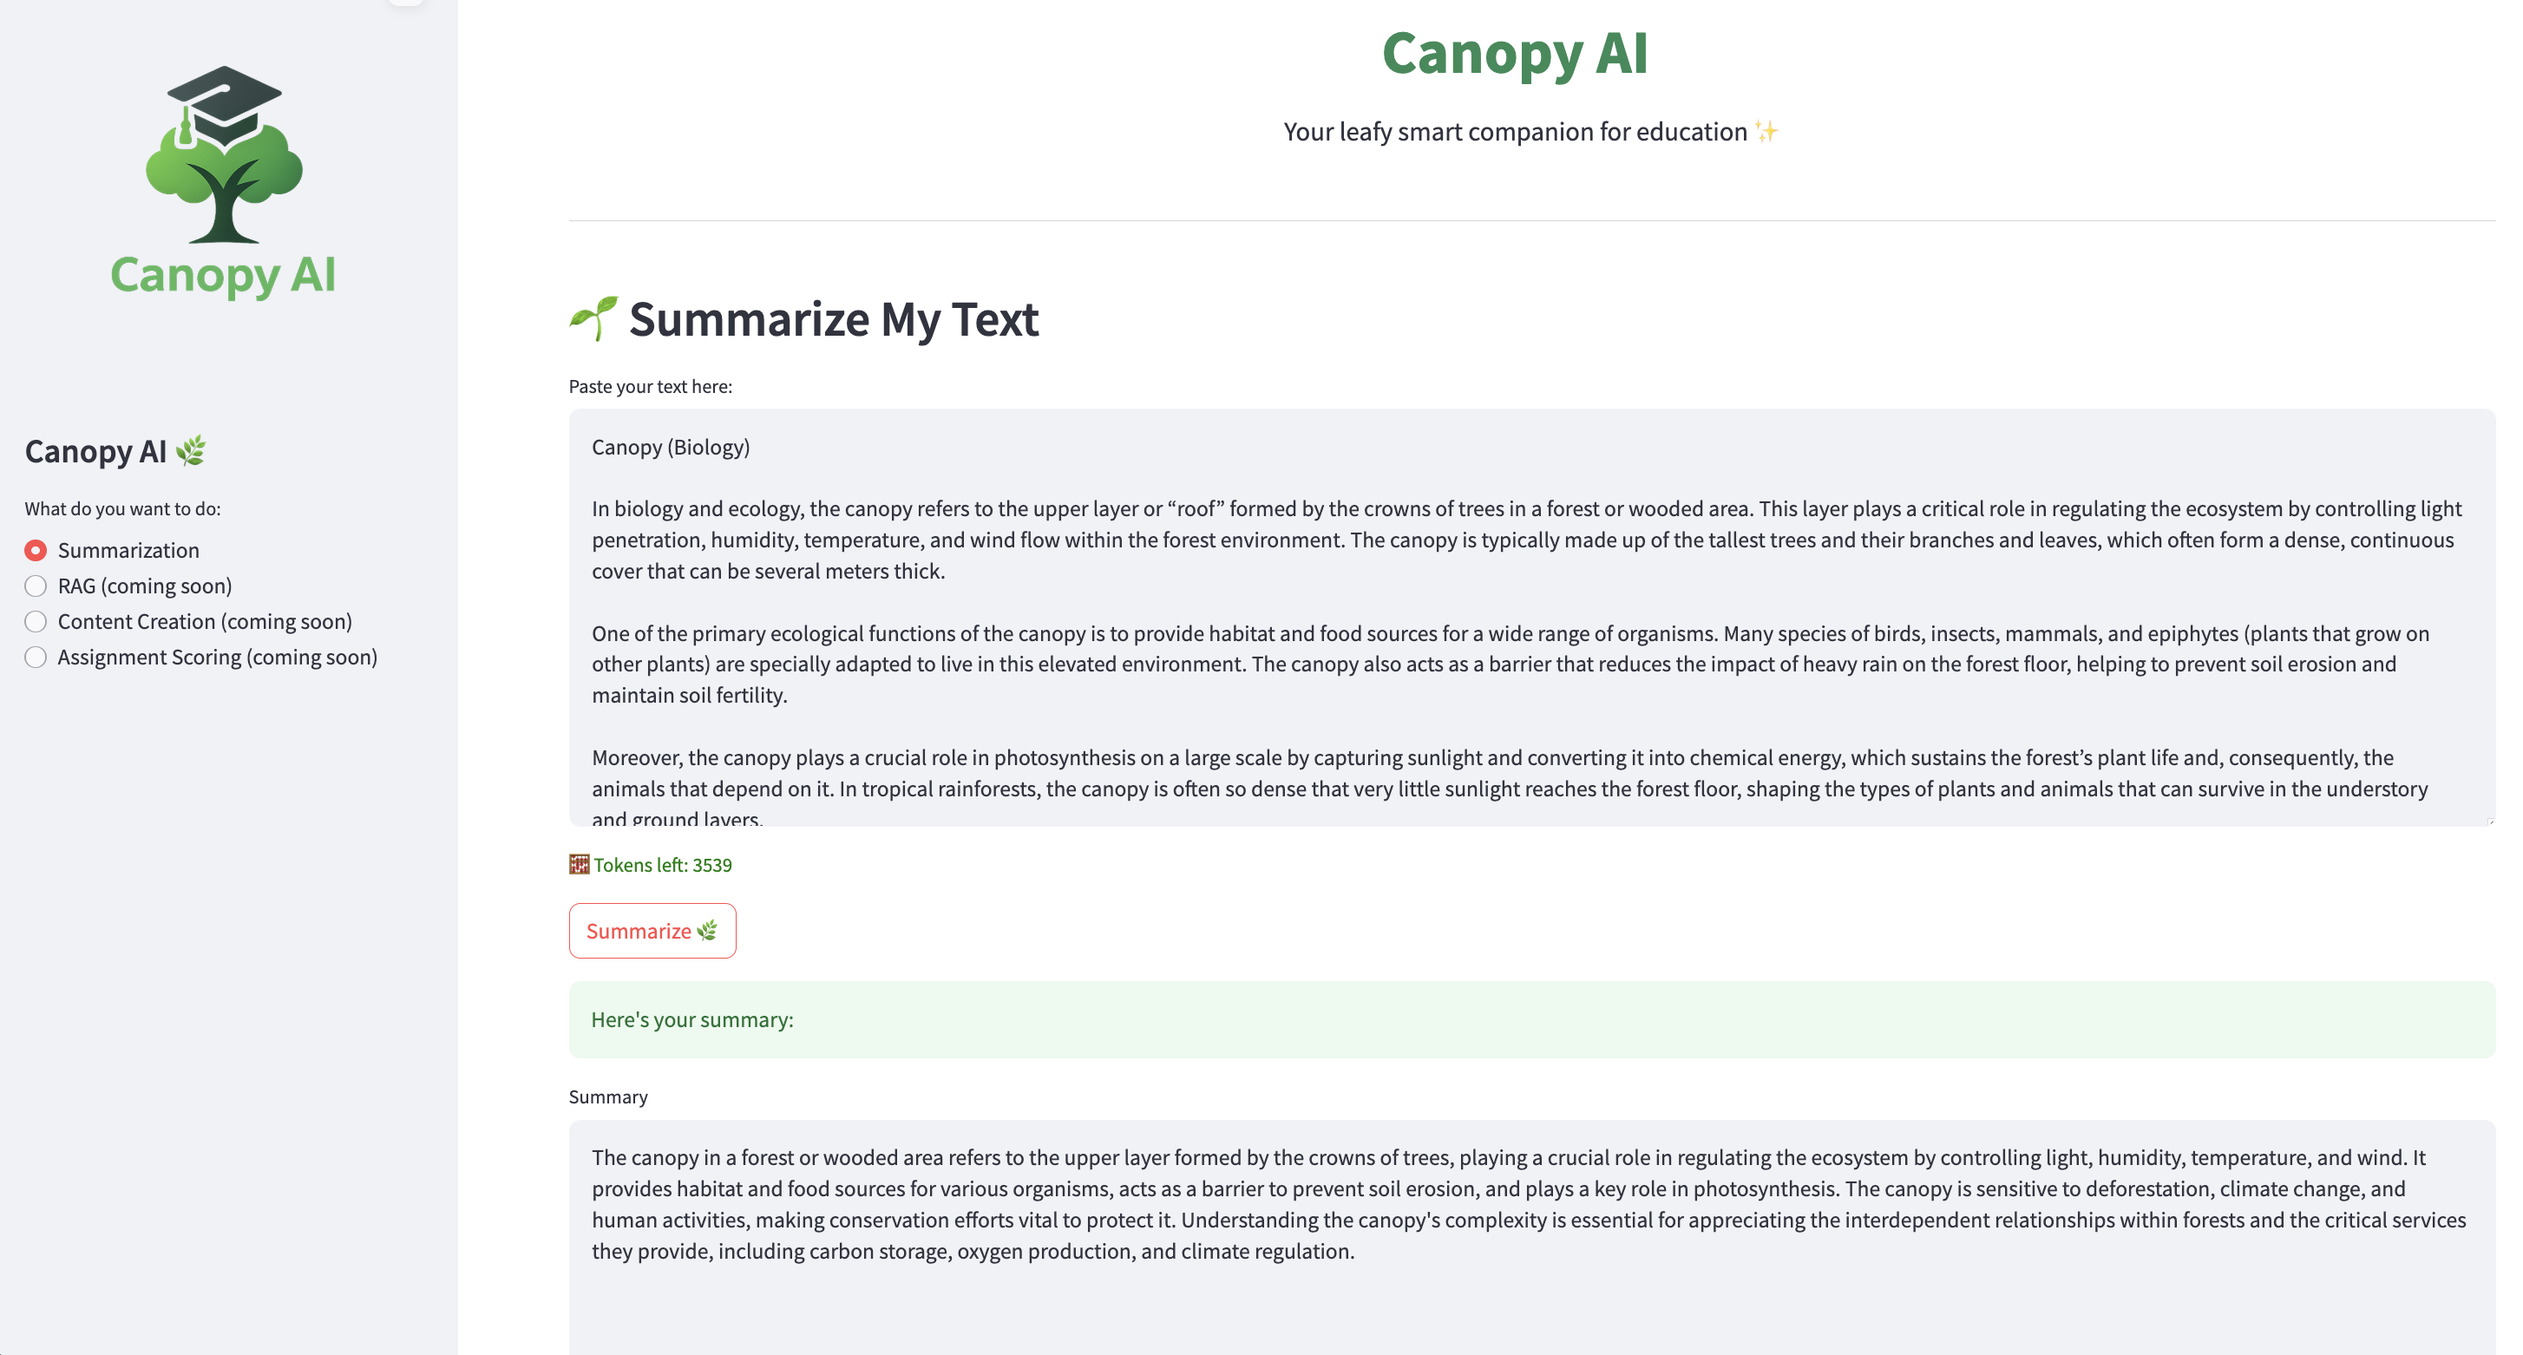
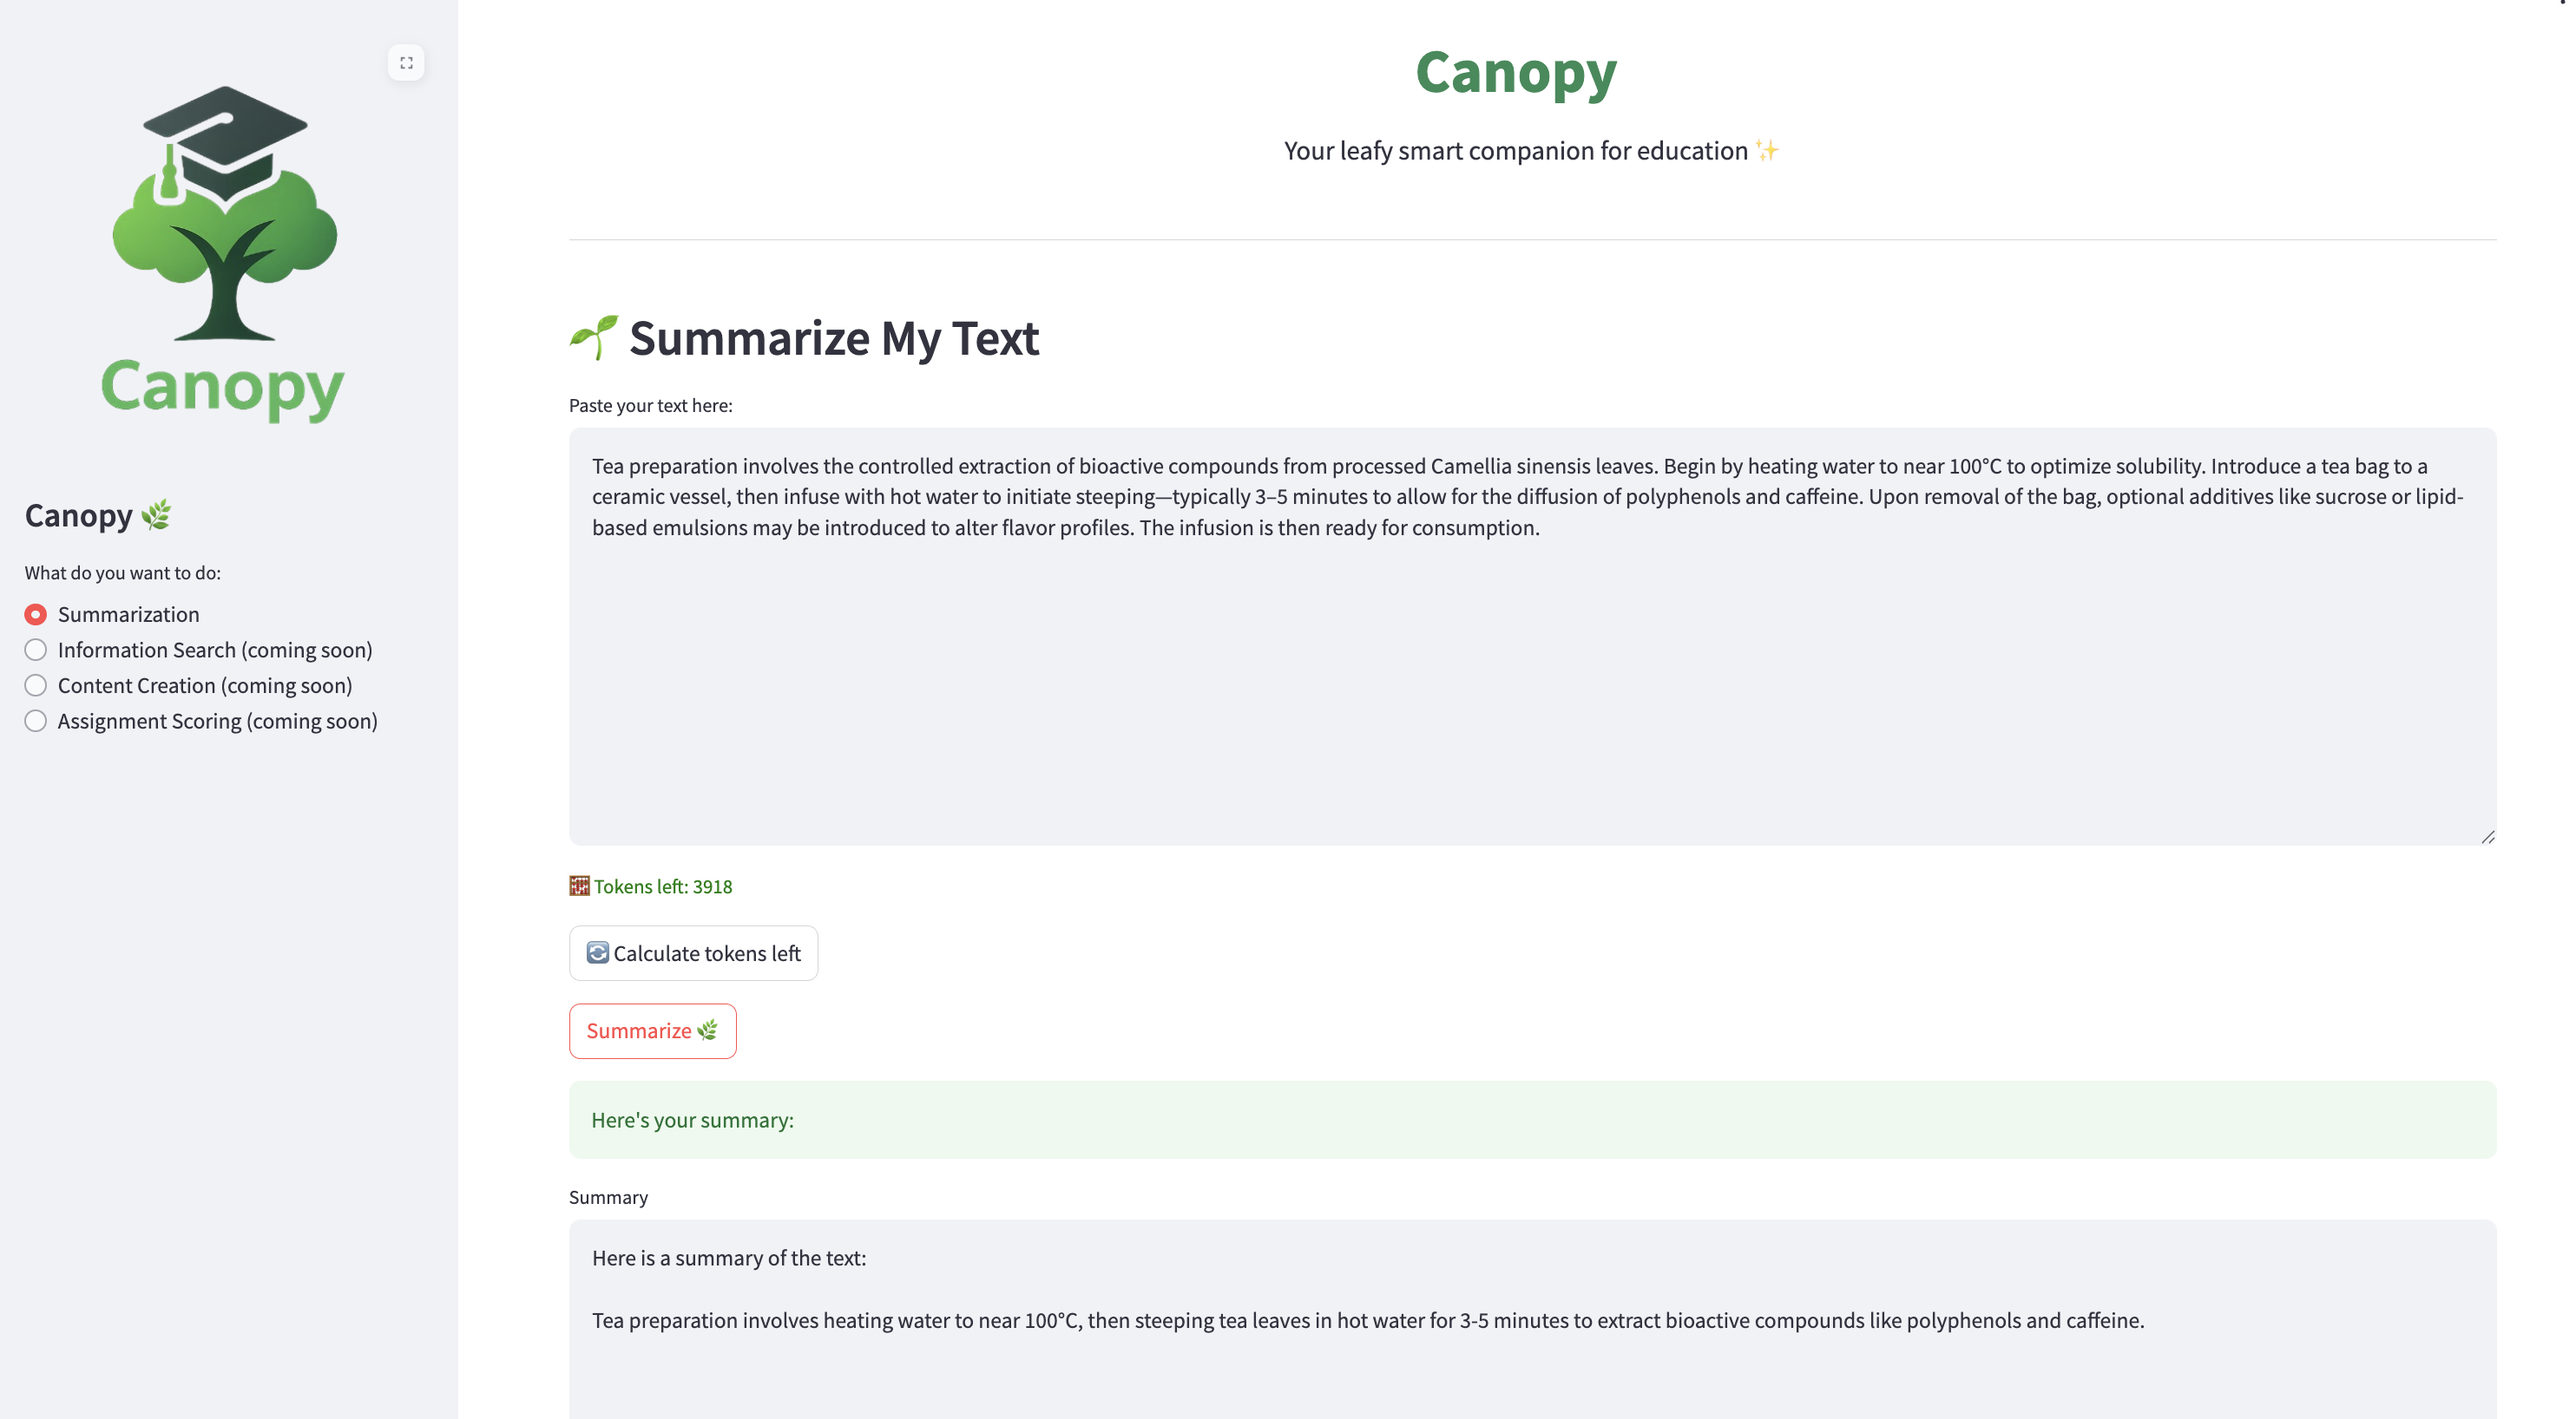
🌼some updates before dry run

diff --git a/docs/3-ready-to-scale-101/2-into-the-workspace.md b/docs/3-ready-to-scale-101/2-into-the-workspace.md
@@ -1,6 +1,6 @@
 # 📘 Interacting with Llama Stack via Workbench
 
-Now that we’ve deployed the Llama Stack and verified it’s up and running, it’s time to get hands-on.
+Now that we’ve deployed the Llama Stack and verified it’s up and running, it’s time to get more hands-on.
 
 In this section, we’ll launch a Workbench on Red Hat OpenShift AI to spin up a Code Server environment. This gives us a browser-based IDE where we can run Python notebooks and start interacting with the Llama Stack programmatically.
 
@@ -12,7 +12,7 @@ You’ll use this environment to:
 
 By the end of this section, you'll have a better grasp of how to integrate Llama Stack into your own workflows and applications — and set the stage for more advanced use cases.
 
-1. Login to [OpenShift AI](https://rhods-dashboard-redhat-ods-applications.<CLUSTER_DOMAIN>/). You’ll see `<USER_NAME>-canopy` project also there. 
+1. Login to [OpenShift AI](https://rhods-dashboard-redhat-ods-applications.<CLUSTER_DOMAIN>/). You’ll see your `<USER_NAME>-canopy` project there too!
 
    ![openshift-ai.png](./images/openshift-ai.png)
 
@@ -26,7 +26,7 @@ By the end of this section, you'll have a better grasp of how to integrate Llama
 
     **Notebook Image:** 
 
-    - Image selection: `Code Server | Data Science | CPU | Python 3.12`
+    - Image selection: `Code Server | Data Science | CPU | Python 3.12` (at the end of the list😌)
   
     **Deployment size**
     - Container size: `Small`
@@ -42,7 +42,7 @@ By the end of this section, you'll have a better grasp of how to integrate Llama
 
     And finally, hit `Create workbench`.
 
-When it is in running state, Open it and use your credentials to access it.
+When it is in running state, open it by clicking its name and use your credentials to access it.
 
    ![open-workbench.png](./images/open-workbench.png)
 
@@ -56,15 +56,15 @@ When it is in running state, Open it and use your credentials to access it.
    git clone https://<USER_NAME>:<PASSWORD>@gitea-gitea.<CLUSTER_DOMAIN>/<USER_NAME>/canopy.git
    ```
 
-6. Open up the notebook called `3-ready-to-scale-101/1-intro-llama-stack.ipynb` and follow the instructions. When you run the first code cell, it will ask you to choose a kernel. Select the first option. That means it will run the code in this workbench locally.
+6. Open up the notebook called `3-ready-to-scale-101/1-intro-llama-stack.ipynb` and follow the instructions. When you run the first code cell, it will ask you to choose a kernel. Select the first option. That means it will run the code within this workbench locally.
 
    ![choose-python-env.png](./images/choose-python-env.png)
 
-   Then it will ask you to choose which python environment to use and go with the `Recommended` one.
+   Then it will ask you to choose which Python environment to use. Go with the `Recommended` one.
 
    ![choose-python-env2.png](./images/choose-python-env2.png)
 
-   And now, feel free to experiment!
+   And now, feel free to experiment! Read and run the cells in the notebook! When you are done, come back here:)
 
    ![](https://media0.giphy.com/media/v1.Y2lkPTc5MGI3NjExYjM0ZzFhNjRtemJ1NHNtOTkxYm52b3h3c3pnZ2VvdXBtNjBiZjZzcCZlcD12MV9pbnRlcm5hbF9naWZfYnlfaWQmY3Q9Zw/i68Balzk8Fewg/giphy.gif)
 

diff --git a/docs/3-ready-to-scale-101/3-intro-to-backend.md b/docs/3-ready-to-scale-101/3-intro-to-backend.md
@@ -12,27 +12,35 @@
 
     As we discussed, backend will be the one talking to Llama Stack, therefore we need to make sure we provide the correct Llama Stack connection details:
 
-    - LLAMA_STACK_URL: `http://llama-stack-service:8321`
+    We also need to provide your chosen System Prompt. Because as we did on the Notebooks, we need to include the prompt while calling Llama Stack endpoint.
 
-4. We also need to provide your chosen System Prompt. Because as we did on the Notebooks, we need to include the prompt while calling Llama Stack endpoint.
-    Add your system prompt here, and mind the indentation please 🙏
+    Copy the below YAML snippet, add your own system prompt, and mind the indentation please 🙏
+
+    ```yaml
+    LLAMA_STACK_URL: 'http://llama-stack-service:8321'
+    summarize:
+      enabled: true
+      model: llama32
+      prompt: |               
+        Summarize this text.  # 👈 update this line with your own prompt
+    ```
 
     ![canopy-be-values.png](./images/canopy-be-values.png)
  
     ..leave the rest default and hit `Create`.
 
-5. Verify that it is running on the OpenShift Console.
+4. Verify that it is running on the OpenShift Console.
    
    ![canopy-be-ocp.png](./images/canopy-be-ocp.png)
 
 
 ## Update Canopy Frontend
 
-1. Now it is time to make Canopy UI to talk with backend, instead of directly sending requests to LLM. In order to do that, we need to update some values in our helm chart. In the `Topology` view, find `canopy-ui` and click the three dots underneath > `Upgrade`
+1. Now it is time to make Canopy UI to talk with backend, instead of directly sending requests to LLM. In order to do that, we need to update some values in our helm chart. In the `Workloads` >  `Topology` view, find `canopy-ui` and click the three dots underneath > `Upgrade`
 
     ![update-canopy-ui.png](./images/update-canopy-ui.png)
 
-3. In the values, add below value as `BACKEND_ENDPOINT`.
+3. In the values, add the below backend endpoint value for `BACKEND_ENDPOINT`.
    
     ```bash
     http://canopy-backend:8000
@@ -54,6 +62,10 @@
     ![update-canopy-ui-4.png](./images/update-canopy-ui-4.png)
 
 6. Ask it to summarize a text again!
+
+    ```
+    Tea preparation involves the controlled extraction of bioactive compounds from processed Camellia sinensis leaves. Begin by heating water to near 100°C to optimize solubility. Introduce a tea bag to a ceramic vessel, then infuse with hot water to initiate steeping—typically 3–5 minutes to allow for the diffusion of polyphenols and caffeine. Upon removal of the bag, optional additives like sucrose or lipid-based emulsions may be introduced to alter flavor profiles. The infusion is then ready for consumption.
+    ```
    
    ![canopy-ui-llamastack.png](./images/canopy-ui-llamastack.png)
 

diff --git a/docs/3-ready-to-scale-101/1-llama-stack.md b/docs/3-ready-to-scale-101/1-llama-stack.md
@@ -59,13 +59,17 @@ It’s built to help you prototype quickly and standardize early, so you quicker
 
 Let’s deploy the Playground to verify the integration between Llama Stack and your LLM before we deep dive into what’s going on under the hood and how we’ll update the frontend.
 
-1. Just like we did with Llama Stack; Go to OpenShift Console, click `+Add` and select `Helm Charts`. You'll see `GenAIOps Helm Charts`. Select `Llama Stack Playground` > `Create`.
+1. At this point you know the drill! Go to Opneshift console, expand `Helm` section from the left menu, click `Releases` and make sure you are on `<USER_NAME>-canopy` project. Then from the top right select `Crease Helm Release`.
 
-    ![llama-stack-playground-helmchart.png](./images/llama-stack-playground-helmchart.png)
+    ![llama-stack-playground-helm-release.png](./images/llama-stack-playground-helm-release.png)
+
+2. Select `GenAIOps Helm Charts` from the Chart Repositories list and choose `Llama Stack Playground` and click `Create`.
+
+    ![llama-stack-playground-helm.png](./images/llama-stack-playground-helm.png)
 
 2. You do not need to change any value here. Just hit `Create` and wait to be up and running. 
 
-    ![llama-satck-playground-ocp.png](./images/llama-stack-playground-ocp.png)
+    ![llama-stack-playground-ocp.png](./images/llama-stack-playground-ocp.png)
 
     Then you can click the little arrow on the side of the circle/icon and access to the playground.
 
@@ -80,7 +84,7 @@ Let’s deploy the Playground to verify the integration between Llama Stack and 
 
     ![llama-stack-playground-summary.png](./images/llama-stack-playground-summary.png)
 
-You have a few more options than in previous exercises. Alongside `Temperature`, you’ll also see `Top P` and `Repetition Penalty`. Try them out on the summarize task and observe how they change the output. 
+You have a few more options than in previous exercises. Alongside `Temperature`, you’ll also see `Top P` and `Repetition Penalty`. Try them out on the summarize task and observe how they change the output. (If you are not sure what they are, just ask the model :))
 
 What values work well and what do they do? 🧠 🤓
 
